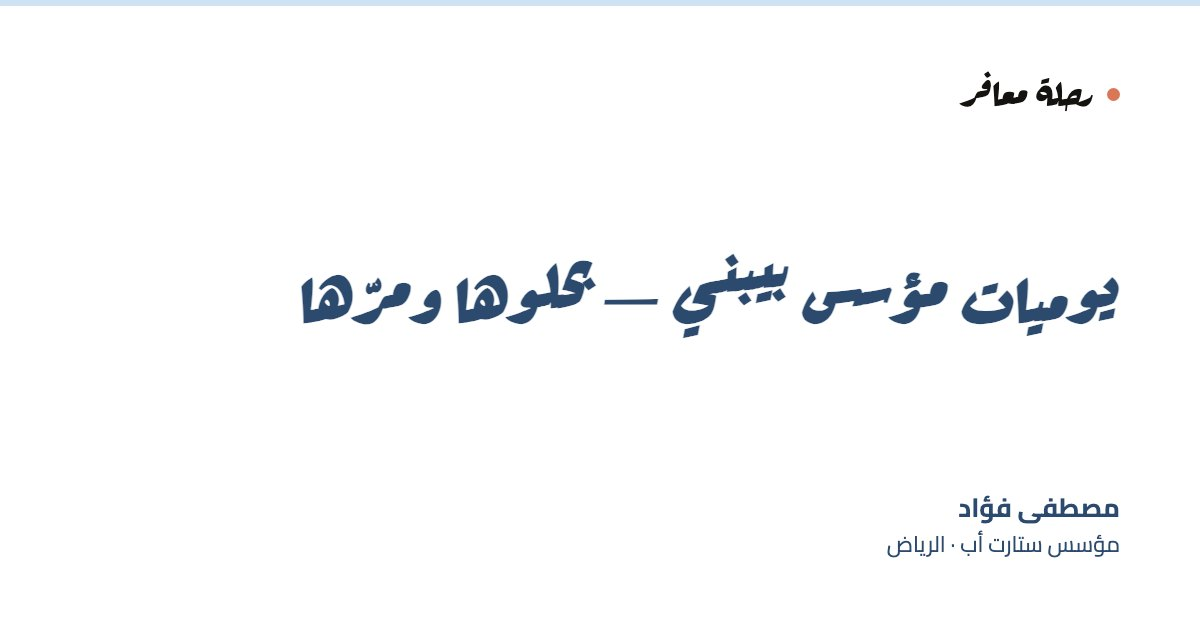
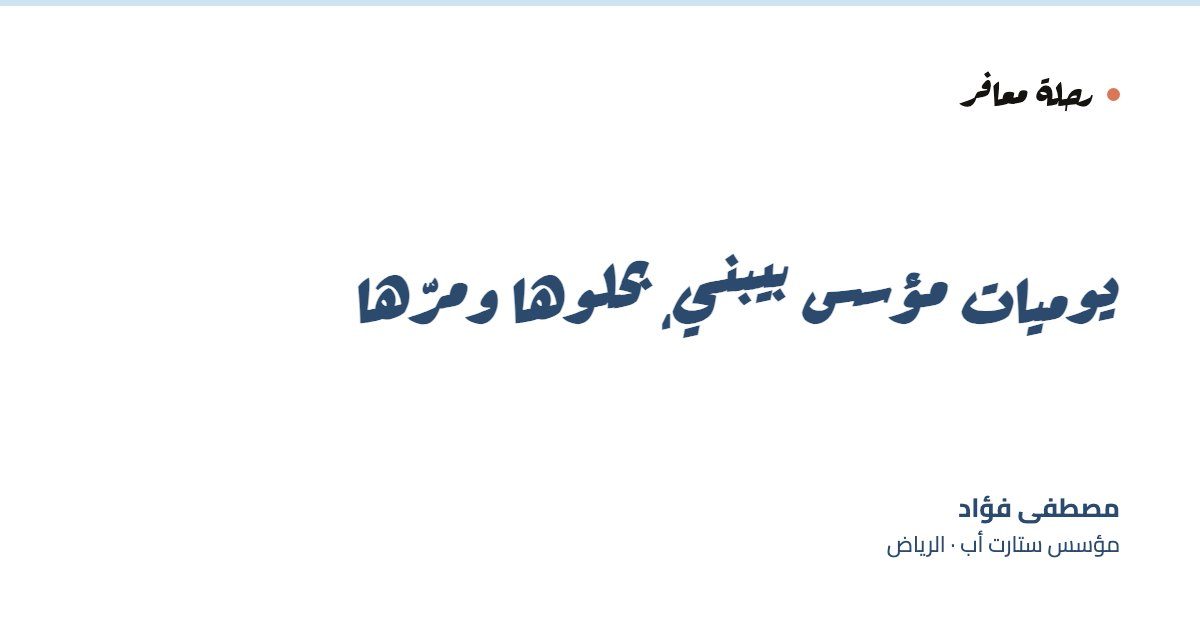
Part D — em dashes out of the config copy slots
Finding 05 (no-em-dash rule).

tagline and authorBio now use an Arabic comma. Both, plus authorRole, are
marked «← Moustafa may replace this line».

authorBio is no longer on Home (Part C removed the sidebar); it is now the
About page's meta description and Person JSON-LD description, which is the
About/future use the phase anticipated. Nothing else reads it.

The default OG card re-rendered because it carries the tagline.

Claude-Session: https://claude.ai/code/session_01WmaXzUXutVr4KAb99zBaaR

Changed region(s): [[0.2467, 0.3921, 0.555, 0.5127]]

diff --git a/lib/config.ts b/lib/config.ts
@@ -10,11 +10,15 @@ export const BLOG_CONFIG = {
 
   // ↓ Canonical origin — used by metadataBase, sitemap, RSS and JSON-LD.
   siteUrl:   'https://moustafafouad.com',
-  tagline:   'يوميات مؤسس بيبني — بحلوها ومرّها',
+  // ← Moustafa may replace this line
+  tagline:   'يوميات مؤسس بيبني، بحلوها ومرّها',
 
-  // ↓ Author identity (shown on the home author card + about page)
+  // ↓ Author identity. authorRole shows in the author strip and the footer;
+  //   authorBio is About-page only since Part C dropped the home sidebar.
+  // ← Moustafa may replace this line
   authorRole: 'مؤسس ستارت أب · الرياض',
-  authorBio:  'بديت صيدلي، بس اخترت أبني. هنا بكتب عن رحلة البناء بحلوها ومرّها — الأيام الصعبة، الانتصارات الصغيرة، واللي بتتعلمه في الطريق.',
+  // ← Moustafa may replace this line
+  authorBio:  'بديت صيدلي، بس اخترت أبني. هنا بكتب عن رحلة البناء بحلوها ومرّها، الأيام الصعبة، الانتصارات الصغيرة، واللي بتتعلمه في الطريق.',
 
   // ↓ Home page streams. Every article's `tag` must appear in exactly one
   //   stream or the article vanishes from the front page. The second tag in
